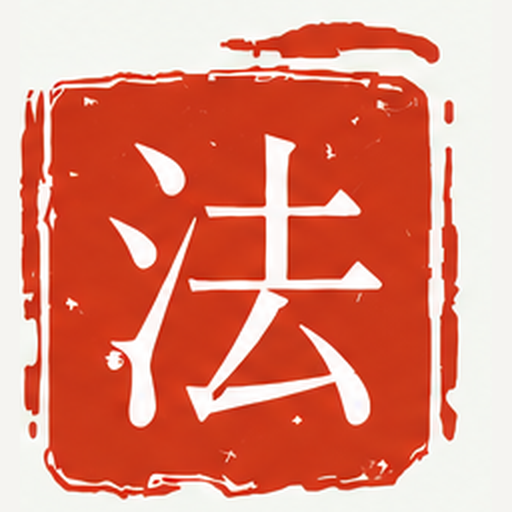
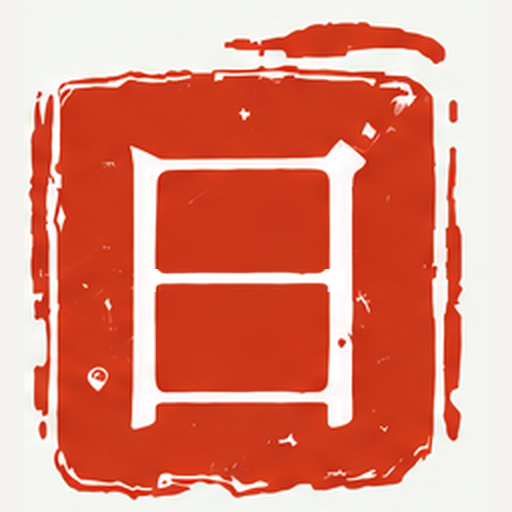
Тингли 5.106.0: иконка 日 для раздела «日课» (прислана Сашей), ссылки на 5.106.0

diff --git a/tingli/index.html b/tingli/index.html
@@ -1079,7 +1079,7 @@ body.in-unit img, body.in-unit audio, body.in-unit video { max-width:100% !impor
 <div class="tabbar" id="tabbar">
   <div class="sb-brand"><img src="logo.png?v=5.35.0" alt="听"><div><div class="sb-name">小山听力</div><div class="sb-sub" id="sbVer"></div></div></div>
   <button class="tab" id="tab-sched" onclick="goTab('sched')" title="课程"><span class="ic"><img class="ic-img ic-img-on" src="tab-sch.png?v=5.59.0" alt=""><img class="ic-img ic-img-off" src="tab-sch-off.png?v=5.59.0" alt=""></span><span class="tab-label">课程<span class="tab-ru">Расписание и ДЗ</span></span></button>
-  <button class="tab" id="tab-rik" onclick="goTab('rik')" title="日课"><span class="ic"><img class="ic-img ic-img-on" src="tab-rik.png?v=5.59.0" alt=""><img class="ic-img ic-img-off" src="tab-rik-off.png?v=5.59.0" alt=""></span><span class="tab-label">日课<span class="tab-ru">Ежедневная грамматика</span></span></button>
+  <button class="tab" id="tab-rik" onclick="goTab('rik')" title="日课"><span class="ic"><img class="ic-img ic-img-on" src="tab-rik.png?v=5.106.0" alt=""><img class="ic-img ic-img-off" src="tab-rik-off.png?v=5.106.0" alt=""></span><span class="tab-label">日课<span class="tab-ru">Ежедневная грамматика</span></span></button>
   <button class="tab" id="tab-mine" onclick="goTab('mine')" title="语法"><span class="ic"><img class="ic-img ic-img-on" src="tab-fa.png?v=5.59.0" alt=""><img class="ic-img ic-img-off" src="tab-fa-off.png?v=5.59.0" alt=""></span><span class="tab-label">语法<span class="tab-ru">Грамматика с Ли лаоши</span></span></button>
   <button class="tab" id="tab-idv" onclick="goTab('idv')" title="口语"><span class="ic"><img class="ic-img ic-img-on" src="tab-yu.png?v=5.59.0" alt=""><img class="ic-img ic-img-off" src="tab-yu-off.png?v=5.59.0" alt=""></span><span class="tab-label">口语<span class="tab-ru">Разговорный язык с Любой</span></span></button>
   <button class="tab" id="tab-team" onclick="goTab('team')" title="团队"><span class="ic"><img class="ic-img ic-img-on" src="tab-tuan.png?v=5.59.0" alt=""><img class="ic-img ic-img-off" src="tab-tuan-off.png?v=5.59.0" alt=""></span><span class="tab-label">团队<span class="tab-ru">Групповые уроки с Любой</span></span></button>
